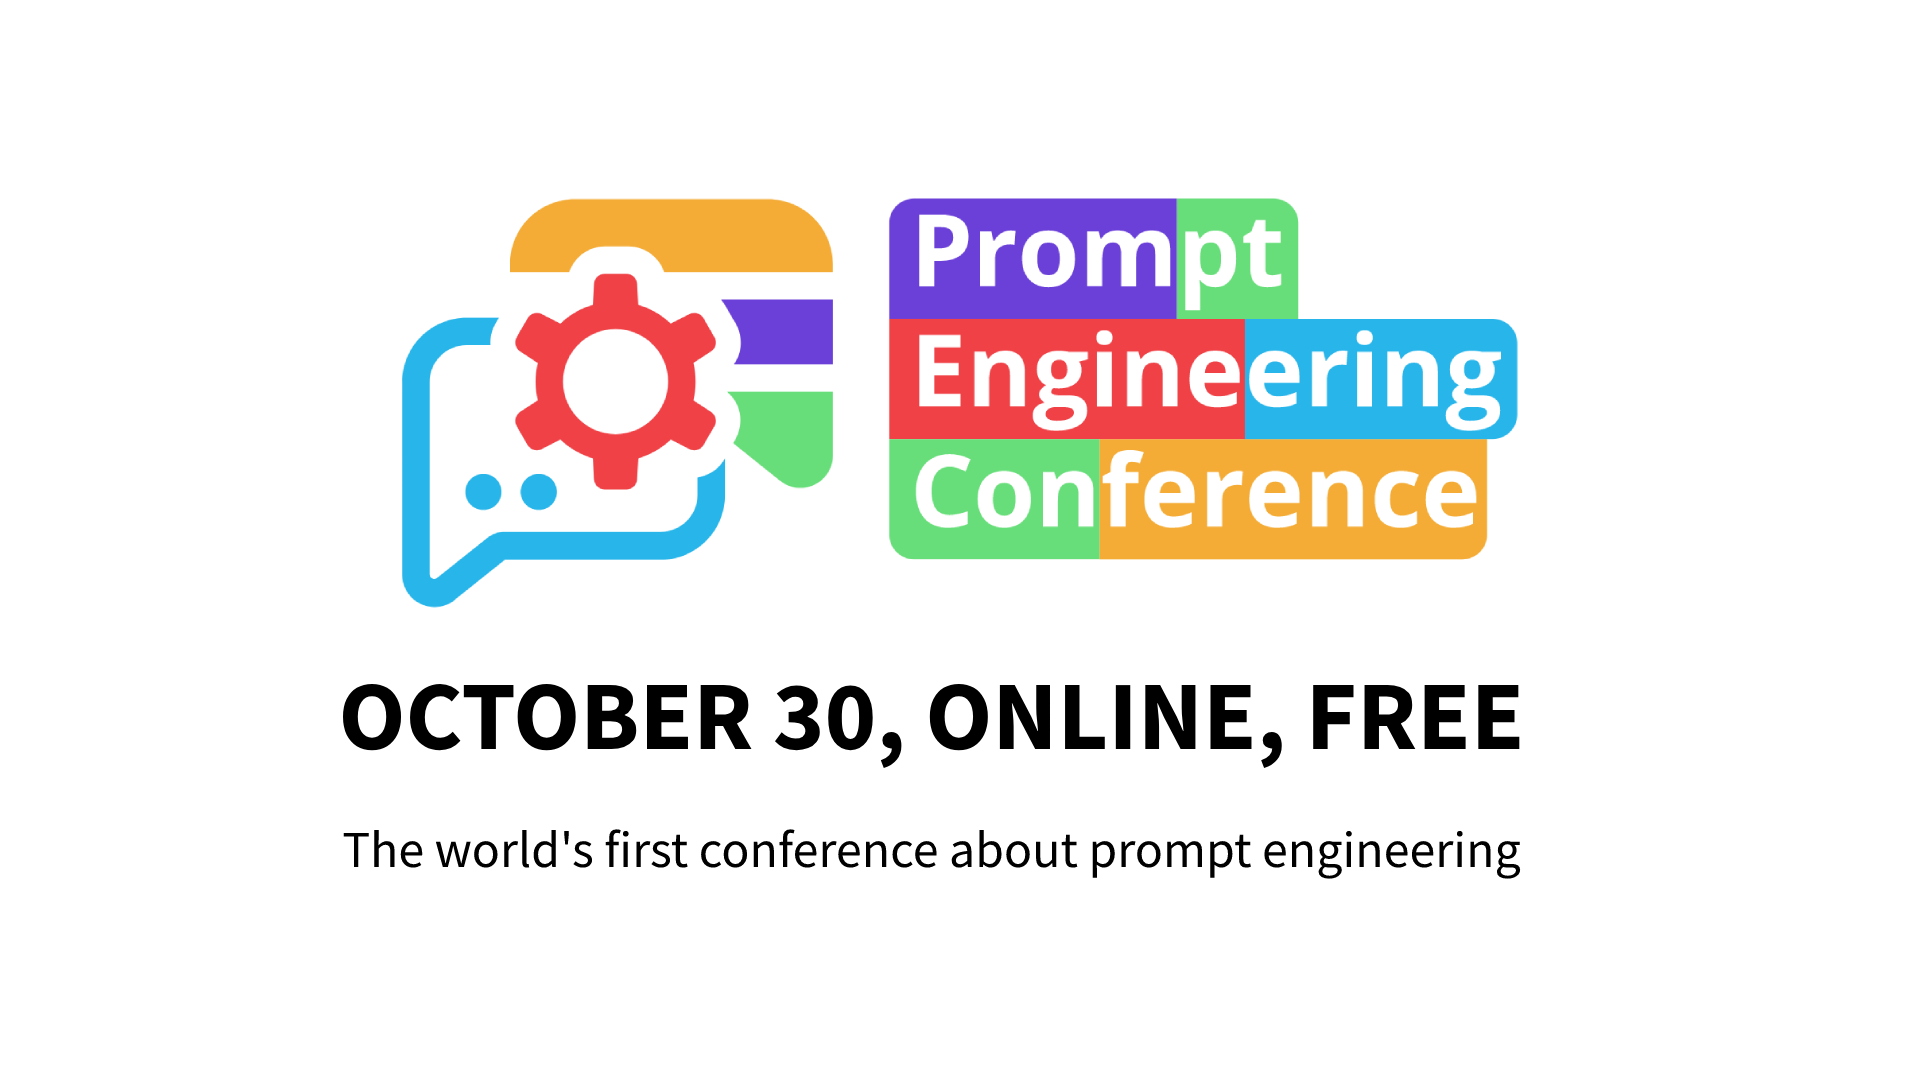
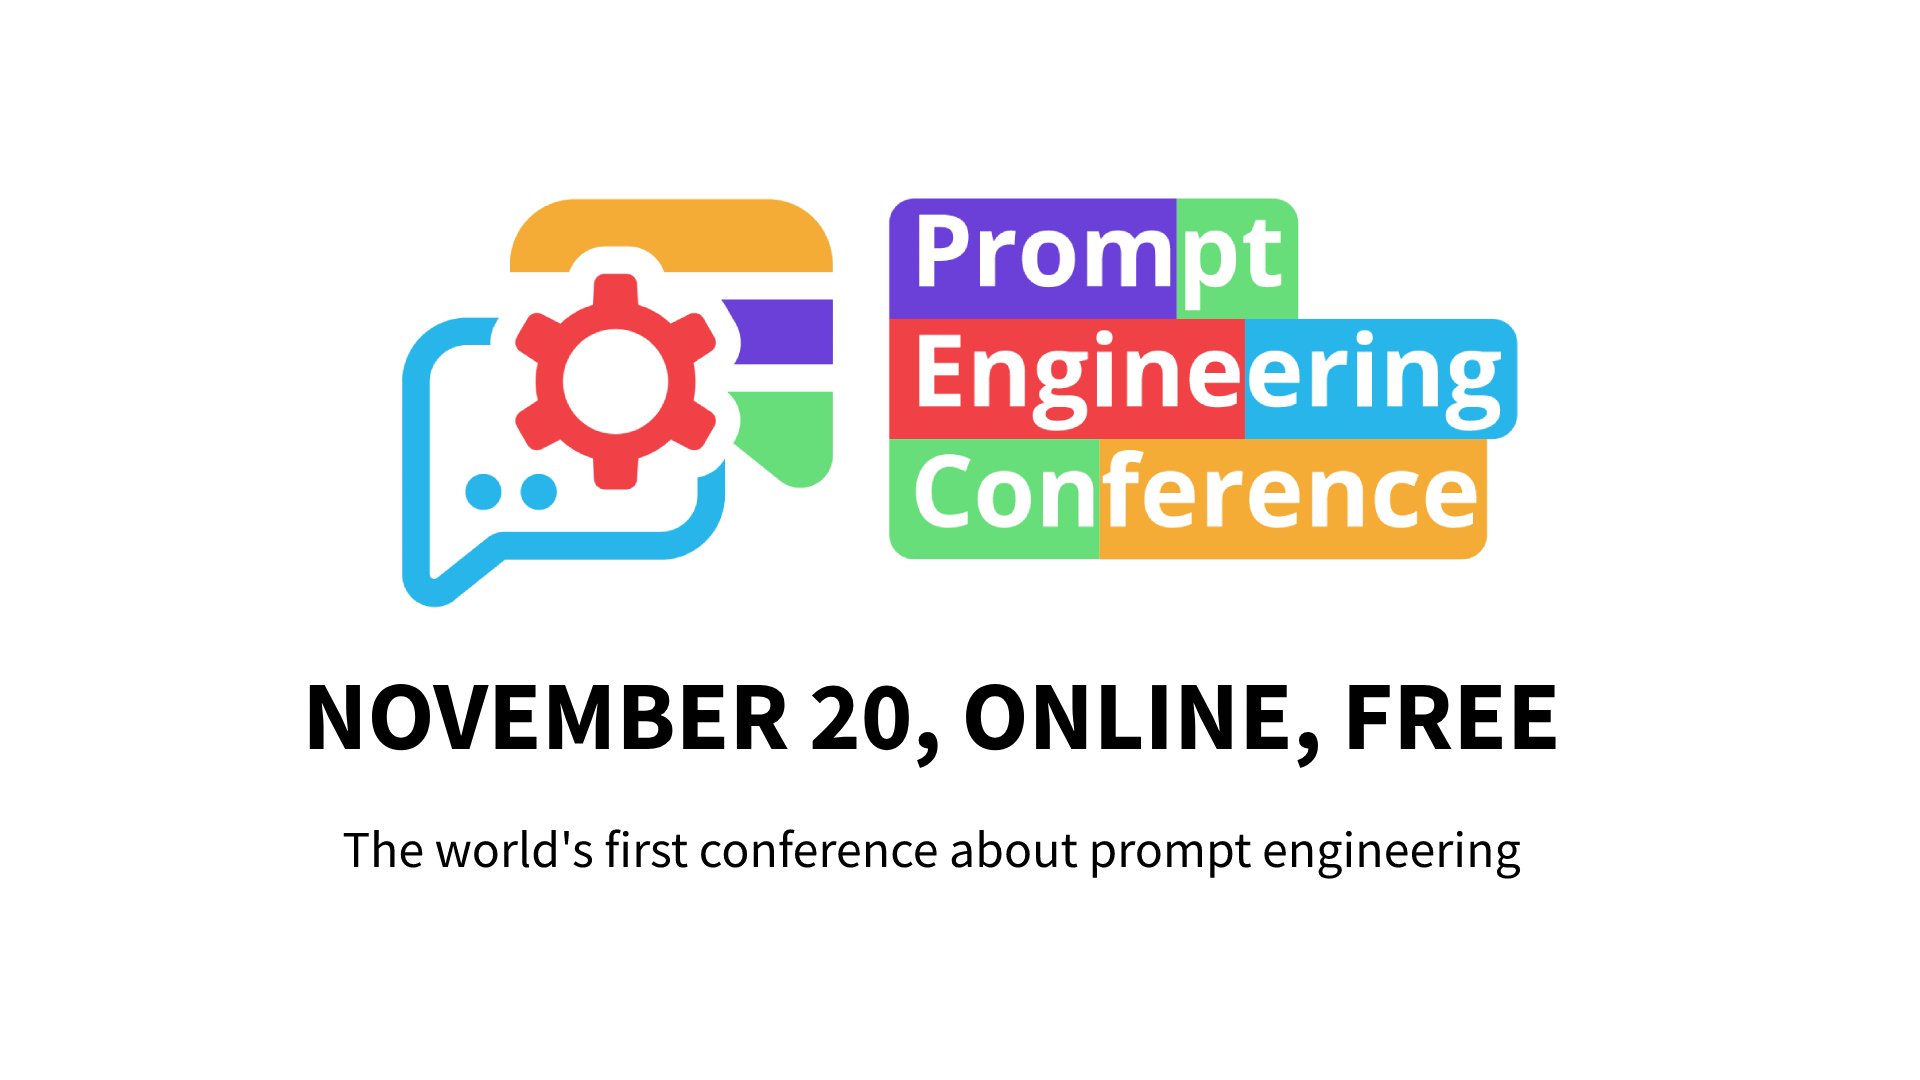
date

Changed region(s): [[0.1562, 0.6111, 0.8125, 0.7028]]

diff --git a/components/layout.js b/components/layout.js
@@ -180,7 +180,7 @@ export default function Layout({ children }) {
             <span className="tokenizer-tkn tokenizer-tkn-4"> available</span>
           </div>
         </HtmlTooltip>
-        <h1>October 30, Online, Free</h1>
+        <h1>November 20, Online, Free</h1>
         <HtmlTooltip title="Reserve your virtual seat" arrow>
           <Button
             variant="contained"
